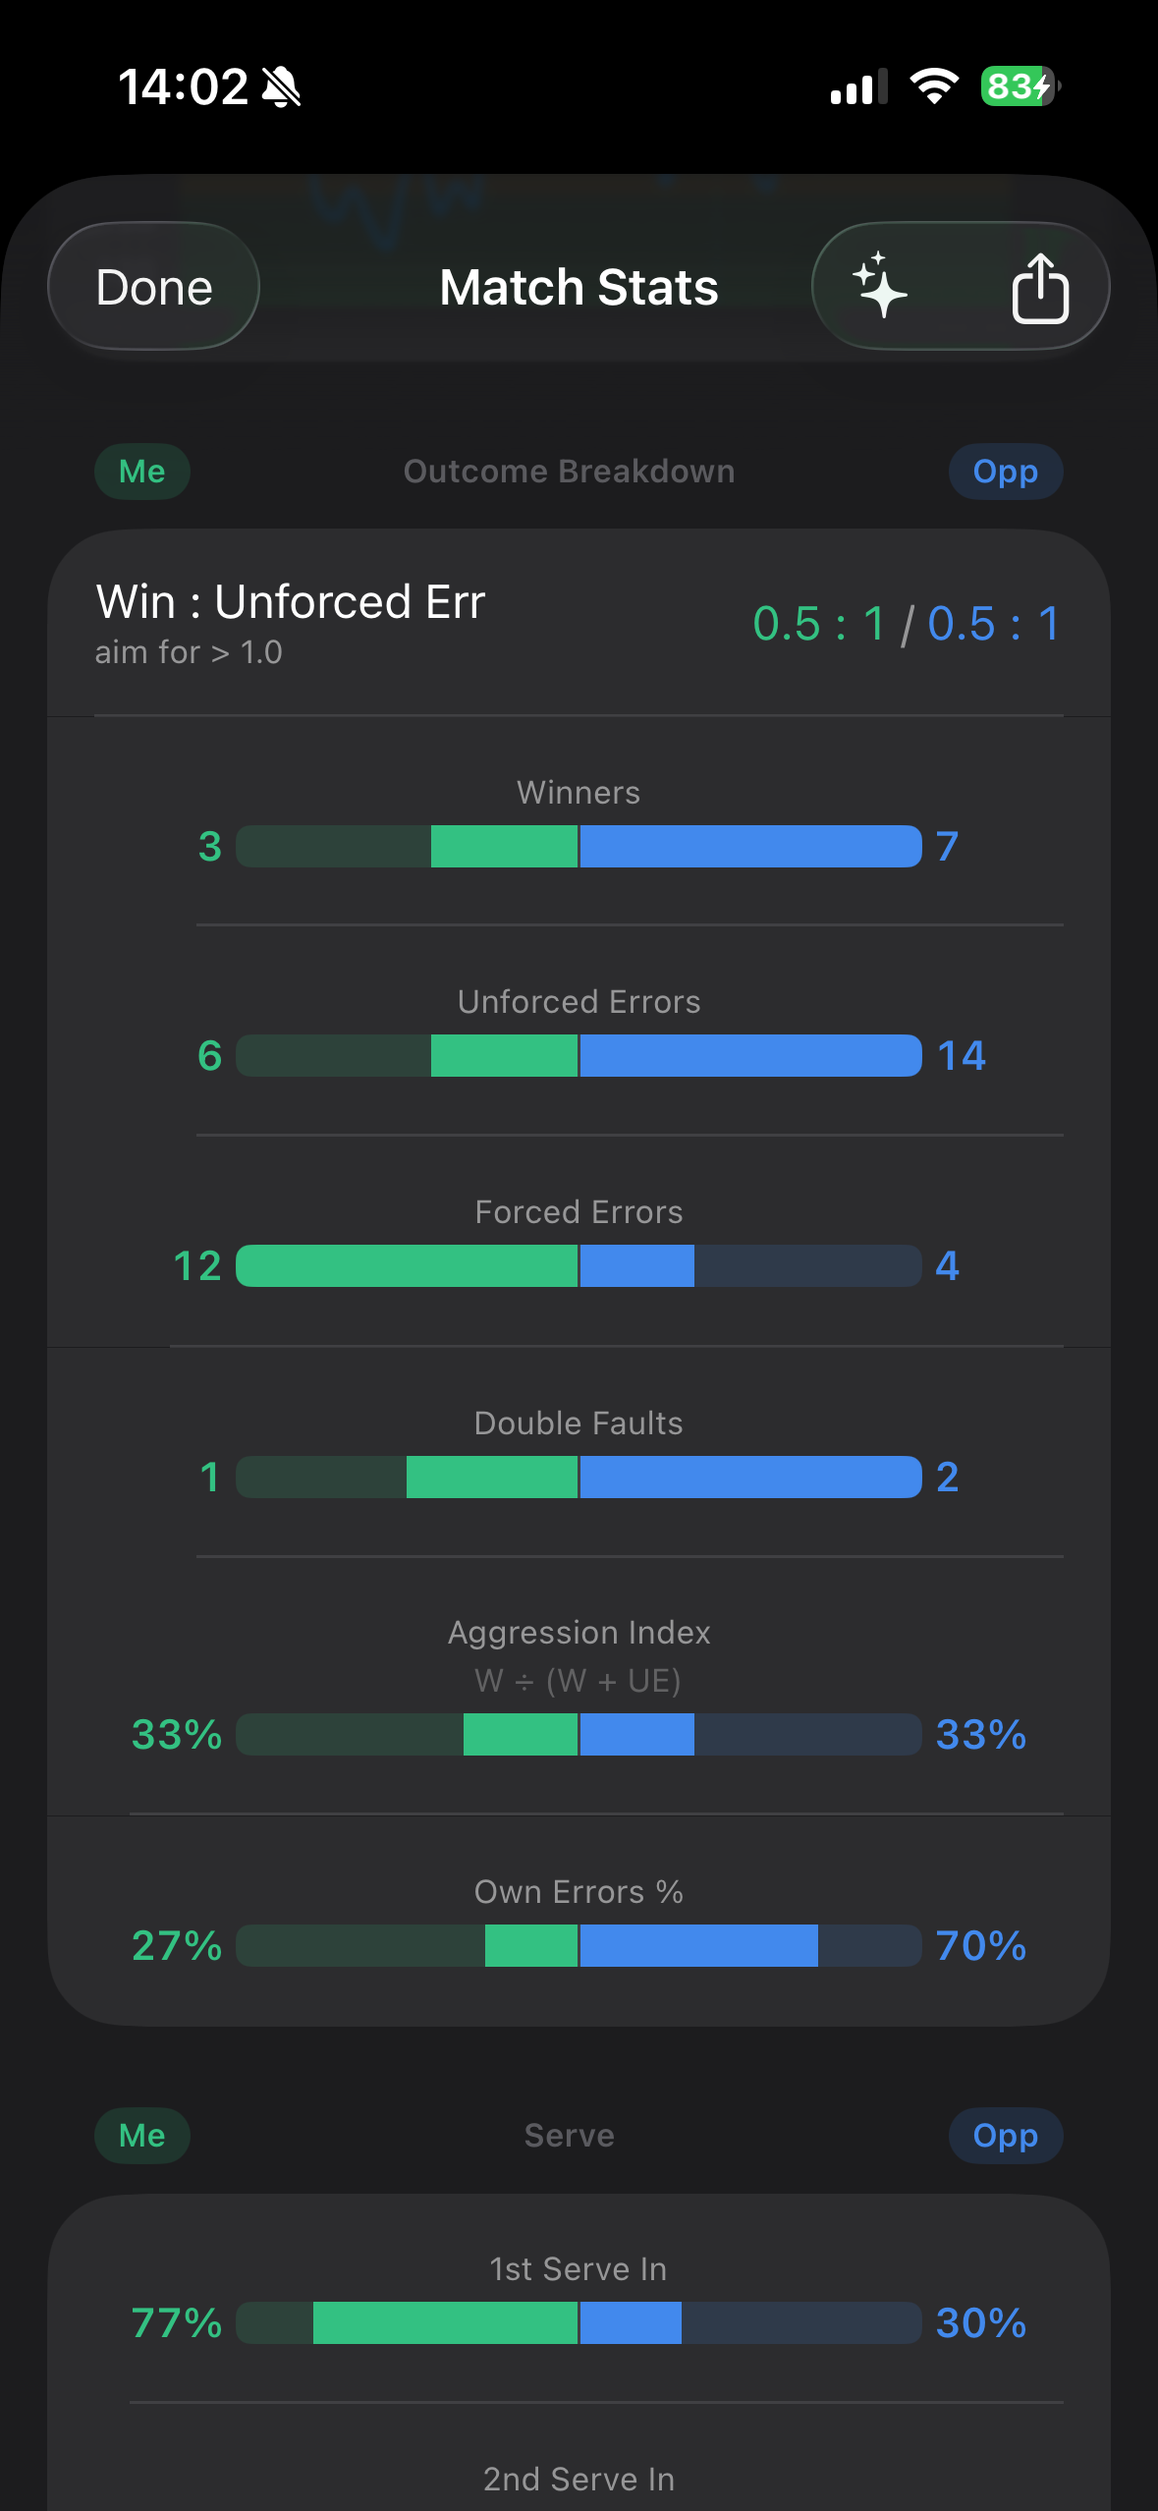
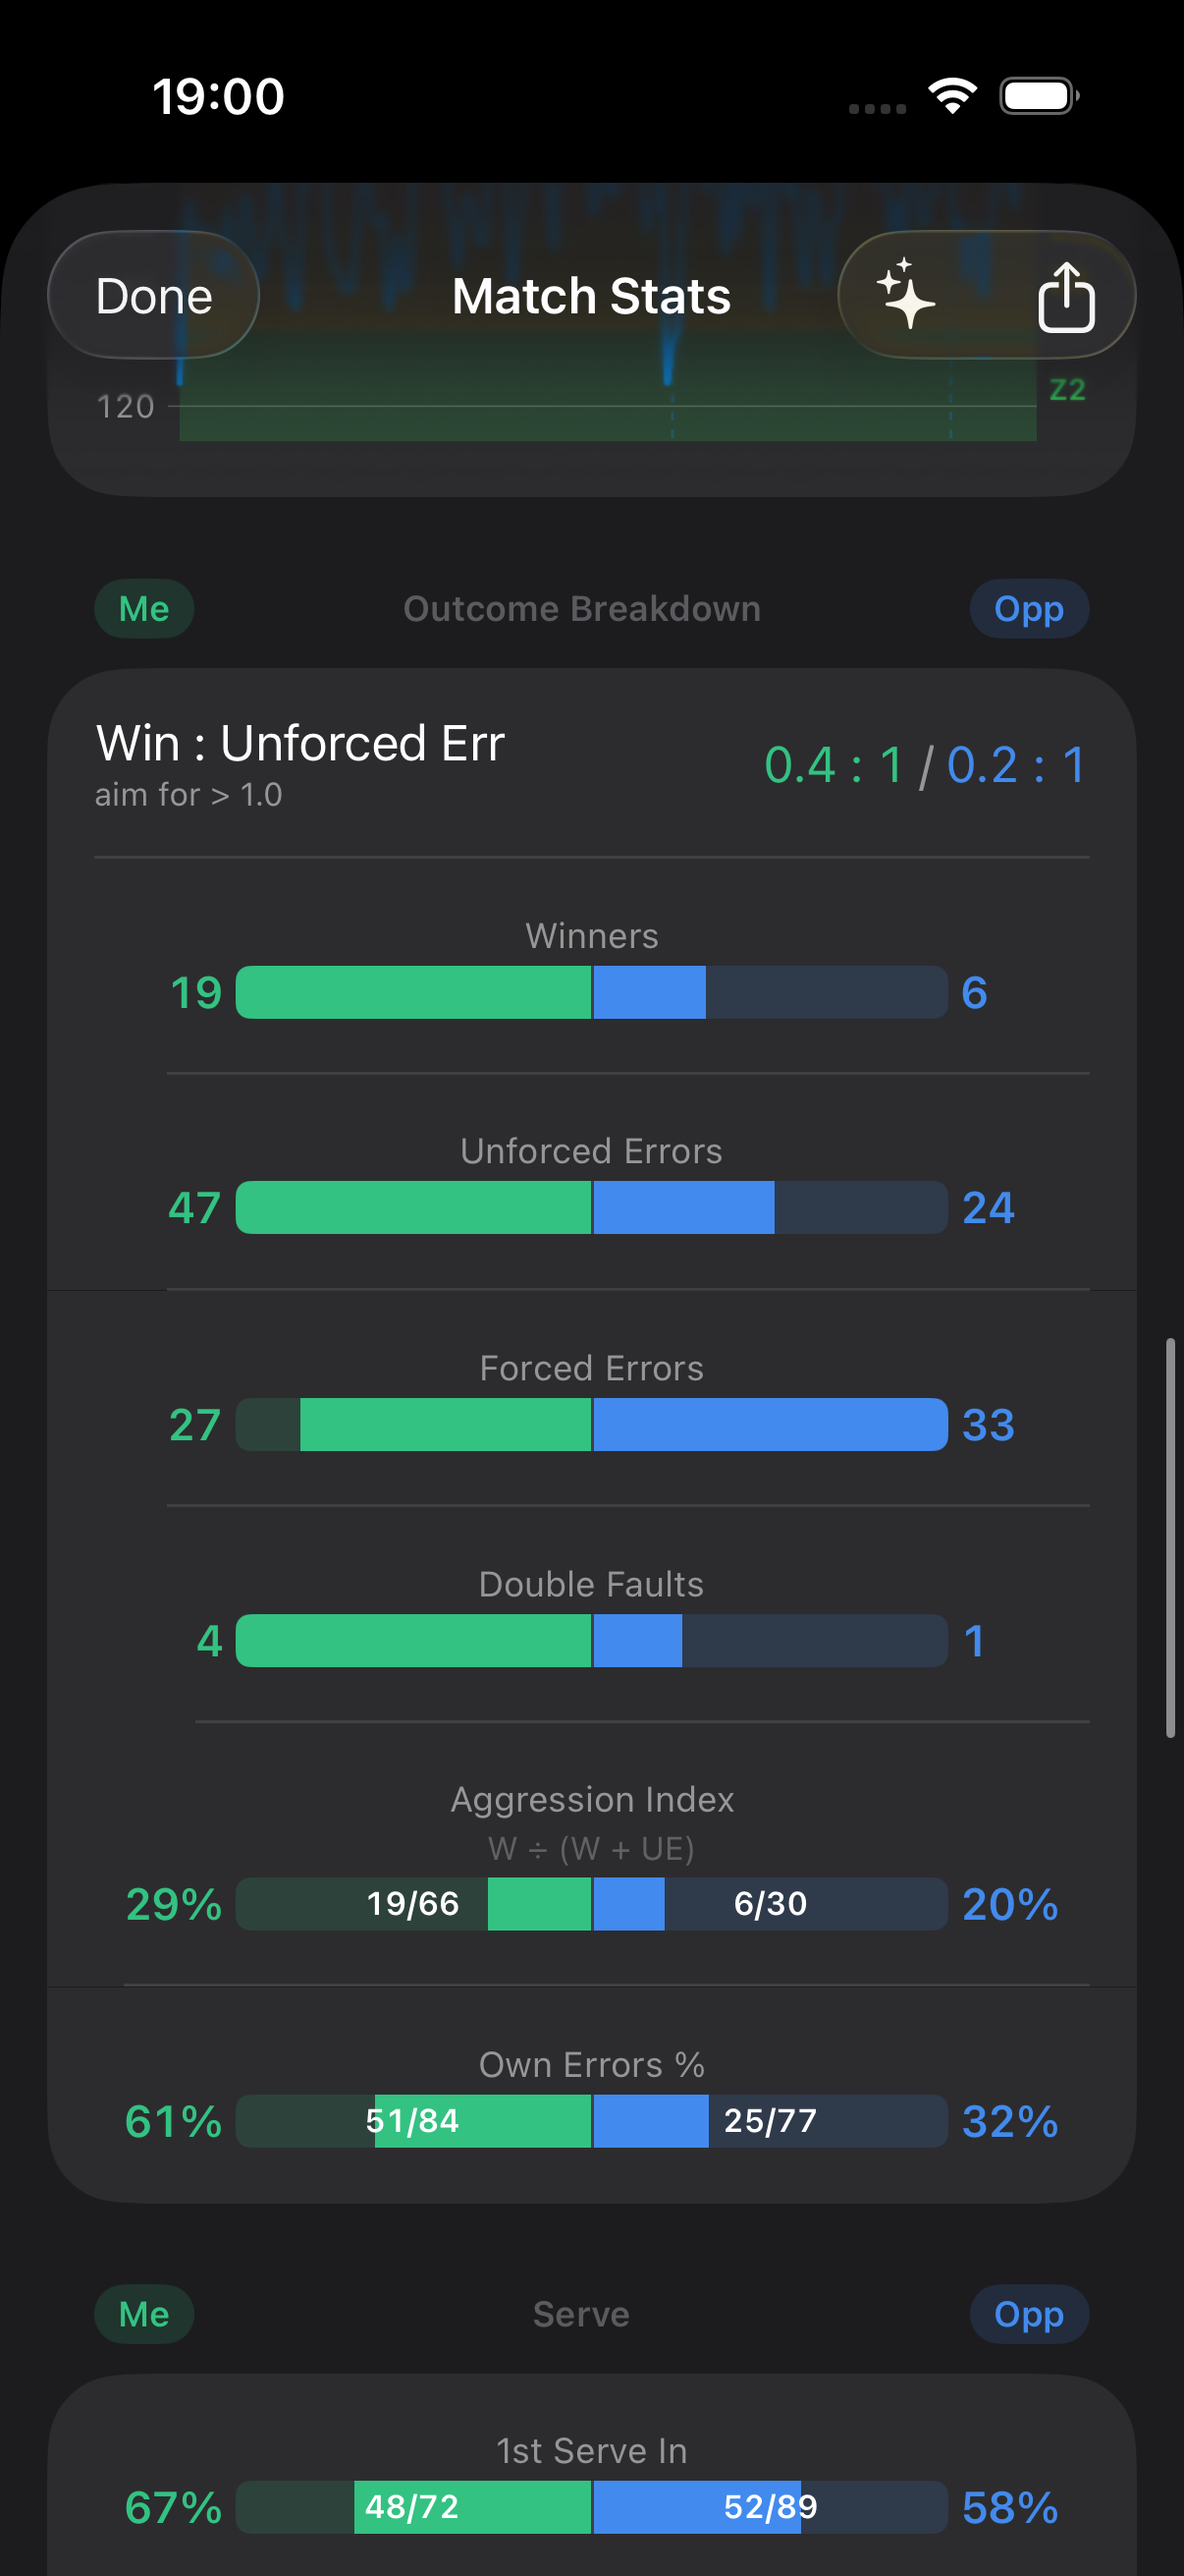
docs: refresh stale screenshots and add web-export shots to README + site
02, 03, 05, 07, 08 were stale relative to shipped UI changes (missing pill
counts on Points Graph outcomes, missing raw counts inside the Match Stats
bars). 10-12 used to be screenshots of the AI-coach prompt pasted into the
Notes app; they're now the real generated prompt text, captured directly via
MatchExporter.aiPromptExport and rendered through DeuceMateWebSnapshot.

New 13/14 show the interactive HTML web export, which had no screenshot
anywhere despite being a headline feature — added to the README gallery and
to docs/index.html's #share section, which previously had no visuals at all.

01 (hero composite) and 04 (watch scoreboard) are intentionally left out of
this PR — 04 needs a follow-up, and 01 is pending a manual update.

diff --git a/docs/index.html b/docs/index.html
@@ -309,6 +309,17 @@
         <div class="mini reveal" data-d="1"><div class="ic" aria-hidden="true"><svg viewBox="0 0 24 24" fill="none" stroke-width="2" stroke-linecap="round" stroke-linejoin="round"><rect x="3" y="11" width="18" height="11" rx="2"/><path d="M7 11V7a5 5 0 0 1 10 0v4"/></svg></div><h3>Private by default</h3><p>Nothing is uploaded. The page loads nothing from the network; you choose who to send the file to.</p></div>
         <div class="mini reveal" data-d="2"><div class="ic" aria-hidden="true"><svg viewBox="0 0 24 24" fill="none" stroke-width="2" stroke-linecap="round" stroke-linejoin="round"><circle cx="8" cy="8" r="3"/><circle cx="16" cy="8" r="3"/><path d="M3 20c0-3 2.5-5 5-5s5 2 5 5M13 20c0-3 2.5-5 5-5"/></svg></div><h3>Perfect for opponents</h3><p>Share a full, explorable report with someone who's never heard of DeuceMate.</p></div>
       </div>
+
+      <div class="shot-strip cols-2 reveal">
+        <figure>
+          <div class="device-landscape"><img src="screenshots/13-web-export-points.png" alt="Interactive web export, Points tab: momentum chart with toggleable outcome and ending-shot markers, plus the full point-by-point list." loading="lazy" width="2800" height="3200"></div>
+          <figcaption>The momentum chart and point-by-point list</figcaption>
+        </figure>
+        <figure>
+          <div class="device-landscape"><img src="screenshots/14-web-export-stats.png" alt="Interactive web export, Stats tab: the same you-vs-opponent breakdown as the app, filterable by set." loading="lazy" width="2800" height="3200"></div>
+          <figcaption>Every stat, filterable by set</figcaption>
+        </figure>
+      </div>
     </div>
   </section>
 

diff --git a/docs/screenshots/README.md b/docs/screenshots/README.md
@@ -1,9 +1,9 @@
 # Screenshots — capture guide
 
-This folder holds the marketing screenshots shown in the
-[root README](../../README.md). The README gallery is already written and points
-at the **exact filenames** below — capture each shot, save it here under the
-matching name, then uncomment the gallery block in the README.
+This folder holds the marketing screenshots shown in the [root README](../../README.md).
+Most of them (02, 03, 05, 07, 08, 10, 11, 12, 13, 14) are now captured by
+reusable automation instead of by hand — see "How to capture" below. The rest
+(01, 04, 06) still need a person driving a simulator.
 
 > Capturing requires a Mac with Xcode (watchOS + iOS simulators). It can't be
 > done from the web/Linux session that scaffolded this folder.
@@ -17,27 +17,136 @@ shots so the gallery feels cohesive; only `06-themes.png` shows multiple themes.
 
 | # | Filename | What to capture | Screen (source file) |
 |---|----------|-----------------|----------------------|
-| 1 | `01-hero-watch-iphone.png` | **Hero composite** — Apple Watch live scoreboard next to the iPhone live scoreboard/stats, both framed, side by side. The lead image: tells the watch→phone story at a glance. | Watch `DeuceMate/DeuceMate Watch App/ContentView.swift` + iPhone `DeuceMate/DeuceMate/Views/LiveScoreboardView.swift` / `DeuceMate/DeuceMate/Views/PointsGraphView.swift` |
+| 1 | `01-hero-watch-iphone.png` | A live-match iPhone landscape scoreboard. (Despite the filename this is currently a solo iPhone shot, not a true watch+iPhone composite — a genuine side-by-side composite needs a paired watch+phone simulator session; see "Live-match shots" below.) | `DeuceMate/DeuceMate/Views/LiveScoreboardView.swift` |
 | 2 | `02-points-momentum-graph.png` | iPhone **points-momentum graph** with the heart-rate and steps overlays on, set bands and outcome markers visible. The flagship "wow" shot. | `DeuceMate/DeuceMate/Views/PointsGraphView.swift` |
-| 3 | `03-match-stats.png` | iPhone **match stats** tab — the Me-vs-Opponent split bars (serve %, break points, Aggression Index, rally depth). | `DeuceMate/DeuceMate/Views/MatchDetailView.swift` |
+| 3 | `03-match-stats.png` | iPhone **match stats** tab — Outcome Breakdown (Winners/Unforced Errors/Aggression Index, with raw counts inside the bars). | `DeuceMate/DeuceMate/Views/MatchDetailView.swift` |
 | 4 | `04-watch-scoreboard.png` | **Clean solo** Apple Watch live scoreboard mid-match — score rows, momentum strip, heart-rate badge. | `DeuceMate/DeuceMate Watch App/ContentView.swift` |
 | 5 | `05-pulse-coach-hr-zones.png` | iPhone **PulseCoach** — win % by HR zone bars + the zone-banded HR timeline. | `DeuceMate/DeuceMate/Views/PulseCoach/PulseCoachSection.swift` |
-| 6 | `06-themes.png` | *(Optional)* a strip of the watch scoreboard across the five court-inspired themes. | `DeuceMate/DeuceMate Watch App/AppTheme.swift` |
+| 6 | `06-themes.png` | *(Optional, manual only)* a strip of the watch scoreboard across the five court-inspired themes. | `DeuceMate/DeuceMate Watch App/AppTheme.swift` |
+| 7 | `07-points-outcomes-won.png` | Expanded Points Graph filtered to the **Points Won** quick-select chip. | `DeuceMate/DeuceMate/Views/PointsGraphView.swift` (`ExpandedPointsGraphView`) |
+| 8 | `08-points-outcomes-lost.png` | Expanded Points Graph filtered to the **Points Lost** quick-select chip. | same |
+| 10 | `10-ai-coach-prompt.png` | The real generated AI-coach prompt text (top: coaching instructions + match overview + serve/return performance). | `DeuceMate/DeuceMate/Export/MatchExporter.swift` (`aiPromptExport`) |
+| 11 | `11-ai-coach-stats.png` | Same prompt, scrolled ~44% (heart-rate analysis, PulseCoach insight, movement & fatigue, set-by-set scores, start of the raw point table). | same |
+| 12 | `12-ai-coach-raw-data.png` | Same prompt, scrolled to the bottom — the full point-by-point raw data table. | same |
+| 13 | `13-web-export-points.png` | Interactive **HTML web export**, Points tab — the momentum chart, outcome/serving/ending-shot pills, and point-by-point list. | `Packages/DeuceMateCore/Sources/DeuceMateCore/WebExport/` |
+| 14 | `14-web-export-stats.png` | Interactive **HTML web export**, Stats tab (the default view) — the Me-vs-Opponent comparison bar, set filters, and match statistics. | same |
 
 ## How to capture
 
-1. Run the iPhone scheme on a Pro-class iPhone simulator and the watch scheme on
-   an Apple Watch (Series 9 / Ultra) simulator; play out the demo match so the
-   live screens, graph, and stats are populated.
-2. Save each simulator screen with **⌘S** (Simulator → File → Save Screen), or
-   use Xcode's Debug → View Debugging for a clean frame.
-3. Wrap bare simulator PNGs in official **Apple device frames** (Apple Design
-   Resources) — unframed screenshots look unfinished.
-4. Save each file here under the exact name in the table above (PNG).
+### iOS screens driven by real archive data (02, 03, 05, 07, 08)
 
-## Finish
+These come from `DeuceMateUITests/ScreenshotTests.swift`, which navigates a
+real seeded match's detail view and captures via `XCUIScreen.main.screenshot()`
+(written straight to a host path — no macOS Screen Recording permission needed,
+since the UI-test process runs unsandboxed on the simulator host).
 
-In [`README.md`](../../README.md), delete the "Coming soon" note and remove the
-`<!-- ... -->` markers around the gallery block so the images render. Commit and
-push to the same PR branch — the open pull request picks the images up
-automatically.
+```bash
+# 1. Seed a real archive into a booted iPhone simulator's container.
+xcrun simctl get_app_container <device-udid> ehsan.DeuceMate data
+cd DeuceMate/Packages/DeuceMateCore
+swift run DeuceMateArchiveTool seed /path/to/archive.json "<that path>/Library/Application Support" replace
+
+# 2. Update `targetMatchID` in ScreenshotTests.swift to the UUID of the match
+#    you want to show (get it from `DeuceMateArchiveTool list`), then run:
+cd ../../DeuceMate
+xcodebuild test -project DeuceMate.xcodeproj -scheme "DeuceMate" \
+  -destination "platform=iOS Simulator,id=<device-udid>" \
+  -only-testing:DeuceMateUITests/ScreenshotTests
+```
+Screenshots land in the directory hardcoded as `screenshotOutputDir` at the
+top of the test file — point that at wherever you want them, then copy the
+ones you want into this folder under the names in the table above.
+
+### AI-coach prompt shots (10, 11, 12)
+
+`AICoachSheet` never renders the prompt text on-screen (it only copies it to
+the pasteboard or hands it to a share sheet), so these aren't driven by
+tapping through the app. Instead, `DeuceMateTests/AIPromptExportCaptureTests.swift`
+calls `MatchExporter.aiPromptExport(for:)` directly — the exact function the
+app's "Copy Prompt to Clipboard" button uses — and writes the real generated
+text to a file:
+
+```bash
+xcodebuild test -project DeuceMate.xcodeproj -scheme "DeuceMate" \
+  -destination "platform=iOS Simulator,id=<device-udid>" \
+  -only-testing:DeuceMateTests/AIPromptExportCaptureTests
+```
+
+Then render that text into a presentable page and capture it at three scroll
+positions with `DeuceMateWebSnapshot` (it wraps a `.txt` input in a simple
+styled dark page automatically):
+
+```bash
+cd DeuceMate/Packages/DeuceMateCore
+swift run DeuceMateWebSnapshot /path/to/ai-prompt.txt /tmp/prompt-shots 1200 1600 "scroll:44" "scroll:100"
+```
+Save `00-default.png` / `01-scroll-44.png` / `02-scroll-100.png` as
+`10-ai-coach-prompt.png` / `11-ai-coach-stats.png` / `12-ai-coach-raw-data.png`.
+
+### Web export shots (13, 14)
+
+These don't need the app UI at all — two small command-line tools in the Core
+package render them directly from a match archive:
+
+```bash
+cd DeuceMate/Packages/DeuceMateCore
+
+# 1. List matches in an exported/imported archive (Settings > Backup & Transfer
+#    > Export Match Archive on the phone) to pick a good one — a competitive,
+#    fully-tracked three-setter shows the export off best.
+swift run DeuceMateArchiveTool list /path/to/archive.json
+
+# 2. Render that match's interactive HTML export to a file.
+swift run DeuceMateArchiveTool webexport /path/to/archive.json <index> /tmp/match.html
+
+# 3. Screenshot it headlessly. The default view is the Stats tab; passing
+#    "Points" also clicks into the Points tab for a second shot.
+swift run DeuceMateWebSnapshot /tmp/match.html /tmp/web-shots 1400 1600 Points
+```
+
+`DeuceMateWebSnapshot` writes `00-default.png` (Stats tab) and `01-points.png`
+(Points tab) — save those as `14-web-export-stats.png` and
+`13-web-export-points.png` respectively.
+
+### Live-match shots (01, 04) — the fragile one
+
+Both need a genuinely **live, in-progress** match, since the watch only shows
+live matches (not archive history). `DeuceMate Watch AppUITests/LiveMatchScreenshotTests.swift`
+drives this via real swipe gestures (the app's whole live-scoring model is
+gesture-based — swipe up = point to me, swipe down = point to opponent):
+
+```bash
+# Pair a watch simulator with a booted phone simulator so the phone can
+# mirror the watch live over WatchConnectivity (only needed for 01).
+xcrun simctl pair <watch-udid> <phone-udid>
+xcrun simctl boot <phone-udid>
+xcrun simctl boot <watch-udid>
+
+xcodebuild test -project DeuceMate.xcodeproj -scheme "DeuceMate Watch App" \
+  -destination "platform=watchOS Simulator,id=<watch-udid>" \
+  -only-testing:"DeuceMate Watch AppUITests/LiveMatchScreenshotTests"
+```
+
+This captures `04-watch-scoreboard.png` directly. For `01`, after the watch
+test finishes, check whether the paired phone simulator is mirroring the live
+match (`xcrun simctl io <phone-udid> screenshot`) and, if so, capture it there
+(rotate to landscape via the Simulator app's Device menu first).
+
+**Known fragility**: the test handles the first-launch HealthKit permission
+sheet and a leftover in-progress match from an interrupted prior run, but
+simulator-to-simulator WatchConnectivity pairing and long-running watchOS UI
+test sessions can both become unreliable within a long session (simulators
+occasionally get stuck mid-boot and need a fresh `xcrun simctl shutdown` +
+`boot`). If the phone never picks up the live match, ship a fresh `04`
+(doesn't need pairing at all) and leave `01` as whatever is already committed
+rather than force a broken composite.
+
+### Manual-only shots (06, and a true `01` composite)
+
+1. Run the iPhone scheme on a Pro-class iPhone simulator and the watch scheme
+   on an Apple Watch simulator; play out a demo match.
+2. Save each simulator screen with **⌘S** (Simulator → File → Save Screen).
+3. For a true side-by-side hero composite, frame both captures with official
+   **Apple device frames** (Apple Design Resources) and place them side by
+   side in an image editor — unframed screenshots look unfinished.
+4. Save the file here under the exact name in the table above (PNG).

diff --git a/README.md b/README.md
@@ -24,6 +24,8 @@ DeuceMate is a lightweight, native Apple Watch app for scoring tennis matches in
 | **One tap to send your match data to an AI coach.** | **A structured prompt — with full context — ready for any AI.** |
 | <img src="docs/screenshots/11-ai-coach-stats.png" width="380" alt="Match stats included in the AI export"> | <img src="docs/screenshots/12-ai-coach-raw-data.png" width="380" alt="Full point-by-point data table in the AI export"> |
 | **Complete stats analysis included automatically.** | **Every point, in order — so the AI spots patterns you missed.** |
+| <img src="docs/screenshots/13-web-export-points.png" width="380" alt="Interactive HTML web export — points momentum chart and point-by-point list"> | <img src="docs/screenshots/14-web-export-stats.png" width="380" alt="Interactive HTML web export — Me-vs-Opponent match statistics"> |
+| **Share a match as one self-contained web page — no app required.** | **The full stats breakdown, filterable by set, right in the browser.** |
 
 ## Why DeuceMate Exists
 
